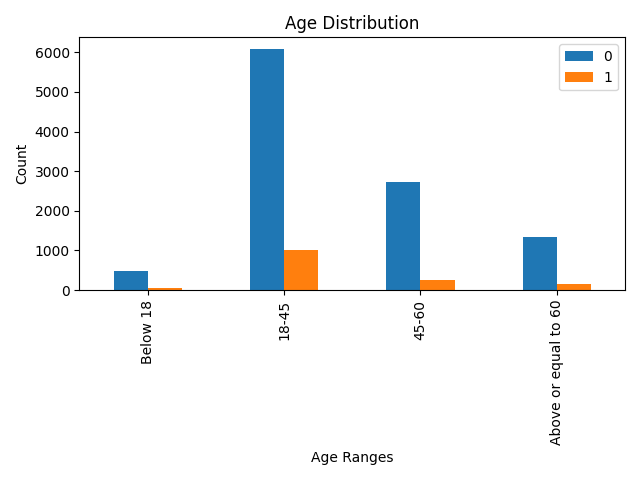
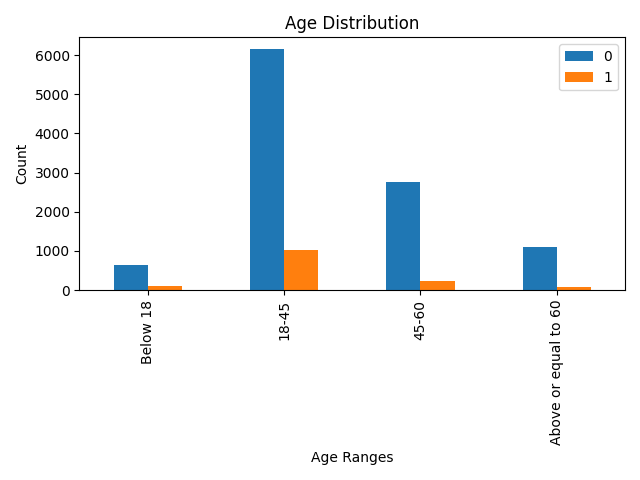
adding label encoding

diff --git a/modules/preprocessing.py b/modules/preprocessing.py
@@ -5,11 +5,16 @@ import pandas as pd
 import numpy as np
 from os import path, getenv
 import matplotlib.pyplot as plt
+import math
+from sklearn.preprocessing import LabelEncoder
 
 class Preprocessor:
     X = None
     y = None
     data = None
+    test = None
+    valid_X = None
+    valid_y = None
     config = None
     preproc_args = None
 
@@ -17,24 +22,55 @@ class Preprocessor:
         self.config = get_config()
         data = pd.read_csv(path.join(self.config['input'],'Train.csv'))
         self.data = data
-        self.X = data.drop(columns = ['target','ID'])
-        self.y = data['target']
+        self.test = pd.read_csv(path.join(self.config['input'], 'Test.csv'))
+        self.test_ids = self.test['ID']
         self.preproc_args = get_preproc_params()
 
-    def fill_missing_values(self):
+    def drop_skip_columns(self):
+        self.data = self.data.drop(columns=self.preproc_args['skip'])
+        self.test = self.test.drop(columns=self.preproc_args['skip'])
+
+    def start_preprocessing(self):
         self.clean_gender_col(self.preproc_args['missing']['gender'])
         self.clean_age_col(int(self.preproc_args['missing']['age']))
         self.clean_color_col(self.preproc_args['missing']['color'])
         self.clean_carmake_col()
         self.clean_carcat_col()
         self.plot_graph()
+        self.drop_skip_columns()
+        self.do_data_split()
+        self.encode_labels()
+
+    def do_data_split(self):
+        valid_len = math.ceil(0.2 * self.data.shape[0])
+        train_len = self.data.shape[0] - valid_len
+        self.X = self.data[0:train_len]
+        self.y = self.X['target']
+        self.X = self.X.drop(columns=['target'])
+        self.valid_X = self.data[train_len:]
+        self.valid_y = self.valid_X['target']
+        self.valid_X = self.valid_X.drop(columns=['target'])
+        print('Lengths of test, train, valid',self.test.shape, self.X.shape, self.valid_X.shape)
+
+    def encode_labels(self):
+        for col in self.X.columns:
+            if col != 'Age' and col != 'No_Pol':
+                le = LabelEncoder()
+                self.data[col] = le.fit_transform(self.data[col])
+                self.X[col] = le.transform(self.X[col])
+                self.valid_X[col] = le.transform(self.valid_X[col])
+                self.test[col] = self.test[col].map(lambda s: 'unknown' if s not in le.classes_ else s)
+                if self.test[self.test[col] == 'unknown'].shape[0] != 0:
+                    le.classes_ = np.append(le.classes_,'unknown')
+                self.test[col] = le.transform(self.test[col])
+                print(f'Encoded {col}', le.classes_)
 
 
     def replace_cols(self, col, to_replace, value):
         for val in to_replace:
             rp = self.data[col].replace(val,value)
             self.data[col] = rp
-            self.X[col] = rp
+            self.test[col] = rp
 
     def clean_gender_col(self, replace_value):
         print('\nCleaning up Gender column')
@@ -44,35 +80,43 @@ class Preprocessor:
         rpcol = self.data['Gender'].replace(to_replace=np.nan,
         value=replace_value)
         self.data['Gender'] = rpcol
-        self.X['Gender'] = rpcol
+        self.test['Gender'] = rpcol
         print('No of null:',self.data['Gender'].isnull().sum())
 
     def clean_age_col(self, replace_value):
         print('\nCleaning up Age Column')
         self.data['Age'] = self.data['Age'].apply(pd.to_numeric)
+        self.test['Age'] = self.test['Age'].apply(pd.to_numeric)
         self.data['Age'] = self.data['Age'].mask(self.data['Age'] < 0, replace_value)
-        self.data['Age'] = self.data['Age'].mask(self.data['Age'] > 120, 120)
-        print('No of invalid ages: ',self.data[self.data['Age'] < 0]['Age'].shape)
-        self.X = self.data.drop(columns=['target','ID'])
+        self.test['Age'] = self.test['Age'].mask(self.test['Age'] < 0, replace_value)
+        self.data['Age'] = self.data['Age'].mask(self.data['Age'] > 120, "120")
+        self.test['Age'] = self.test['Age'].mask(self.test['Age'] > 120, "120")
+        self.data['Age'] = self.data['Age'].astype(str)
+        self.test['Age'] = self.test['Age'].astype(str)
+
 
     def clean_color_col(self, color_mappings):
         self.data['Subject_Car_Colour'] = self.data['Subject_Car_Colour'].str.replace(" ","")
-        self.data['Subject_Car_Colour'] = self.data['Subject_Car_Colour'].replace('AsAttached',-1)
-        self.data['Subject_Car_Colour'] = self.data['Subject_Car_Colour'].fillna(-1)
+        self.test['Subject_Car_Colour'] = self.test['Subject_Car_Colour'].str.replace(" ","")
+        self.data['Subject_Car_Colour'] = self.data['Subject_Car_Colour'].replace('AsAttached',"0")
+        self.test['Subject_Car_Colour'] = self.test['Subject_Car_Colour'].replace('AsAttached',"0")
+        self.data['Subject_Car_Colour'] = self.data['Subject_Car_Colour'].fillna("0")
+        self.test['Subject_Car_Colour'] = self.test['Subject_Car_Colour'].fillna("0")
+
 
         for color in color_mappings:
             self.data['Subject_Car_Colour'] = self.data['Subject_Car_Colour'].replace(color, color_mappings[color])
-
-        self.X = self.data.drop(columns = ['target','ID'])
-
+            self.test['Subject_Car_Colour'] = self.test['Subject_Car_Colour'].replace(color, color_mappings[color])
+             
     def clean_carmake_col(self):
         self.data['Subject_Car_Make'] = self.data['Subject_Car_Make'].replace('.',np.nan)
-        self.data['Subject_Car_Make'] = self.data['Subject_Car_Make'].fillna(-1)
-        self.X = self.data.drop(columns = ['target','ID'])
+        self.test['Subject_Car_Make'] = self.test['Subject_Car_Make'].replace('.',np.nan)
+        self.data['Subject_Car_Make'] = self.data['Subject_Car_Make'].fillna("0")
+        self.test['Subject_Car_Make'] = self.test['Subject_Car_Make'].fillna("0")
 
     def clean_carcat_col(self):
-        self.data['Car_Category'] = self.data['Car_Category'].fillna(-1)
-        self.X = self.data.drop(columns = ['target','ID'])
+        self.data['Car_Category'] = self.data['Car_Category'].fillna("0")
+        self.test['Car_Category'] = self.test['Car_Category'].fillna("0")
 
     def plot_graph(self):
         for col in self.data.columns:
@@ -82,20 +126,20 @@ class Preprocessor:
                 col_names = ['Below 18', '18-45', '45-60', 'Above or equal to 60']
                 data = {}
                 data[col_names[0]] = { 
-                    0: self.data[(self.data['Age'] < 18) & (self.data['target'] == 0)]['Age'].size,
-                    1: self.data[(self.data['Age'] < 18) & (self.data['target'] == 1)]['Age'].size
+                    0: self.data[(self.data['Age'] < "18") & (self.data['target'] == 0)]['Age'].size,
+                    1: self.data[(self.data['Age'] < "18") & (self.data['target'] == 1)]['Age'].size
                 }
                 data[col_names[1]] = {
-                    0: self.data[((self.data['Age'] > 17) & (self.data['Age'] < 45)) & (self.data['target'] == 0)]['Age'].size,
-                    1: self.data[((self.data['Age'] > 17) & (self.data['Age'] < 45)) & (self.data['target'] == 1)]['Age'].size
+                    0: self.data[((self.data['Age'] > "17") & (self.data['Age'] < "45")) & (self.data['target'] == 0)]['Age'].size,
+                    1: self.data[((self.data['Age'] > "17") & (self.data['Age'] < "45")) & (self.data['target'] == 1)]['Age'].size
                 }
                 data[col_names[2]] = {
-                    0: self.data[((self.data['Age'] > 44) & (self.data['Age'] < 60)) & (self.data['target'] == 0)]['Age'].size,
-                    1: self.data[((self.data['Age'] > 44) & (self.data['Age'] < 60)) & (self.data['target'] == 1)]['Age'].size
+                    0: self.data[((self.data['Age'] > "44") & (self.data['Age'] < "60")) & (self.data['target'] == 0)]['Age'].size,
+                    1: self.data[((self.data['Age'] > "44") & (self.data['Age'] < "60")) & (self.data['target'] == 1)]['Age'].size
                 }
                 data[col_names[3]] = {
-                    0: self.data[(self.data['Age'] > 59) & (self.data['target'] == 0)]['Age'].size,
-                    1: self.data[(self.data['Age'] > 59) & (self.data['target'] == 1)]['Age'].size
+                    0: self.data[(self.data['Age'] > "59") & (self.data['target'] == 0)]['Age'].size,
+                    1: self.data[(self.data['Age'] > "59") & (self.data['target'] == 1)]['Age'].size
                 }
                 data = pd.DataFrame(data=list(data.values()), index=col_names)
                 data.plot(kind="bar")
@@ -127,4 +171,3 @@ class Preprocessor:
                 plt.savefig(f'{plot_path}/{col}_distribution.png')
                 plt.clf()
 
-        

diff --git a/index.py b/index.py
@@ -8,7 +8,7 @@ from modules.preprocessing import Preprocessor
 def main(args):
 
     preprocessor = Preprocessor()
-    preprocessor.fill_missing_values()
+    preprocessor.start_preprocessing()
 
 def read_args():
     experiment = Experiment(get_config_path())
